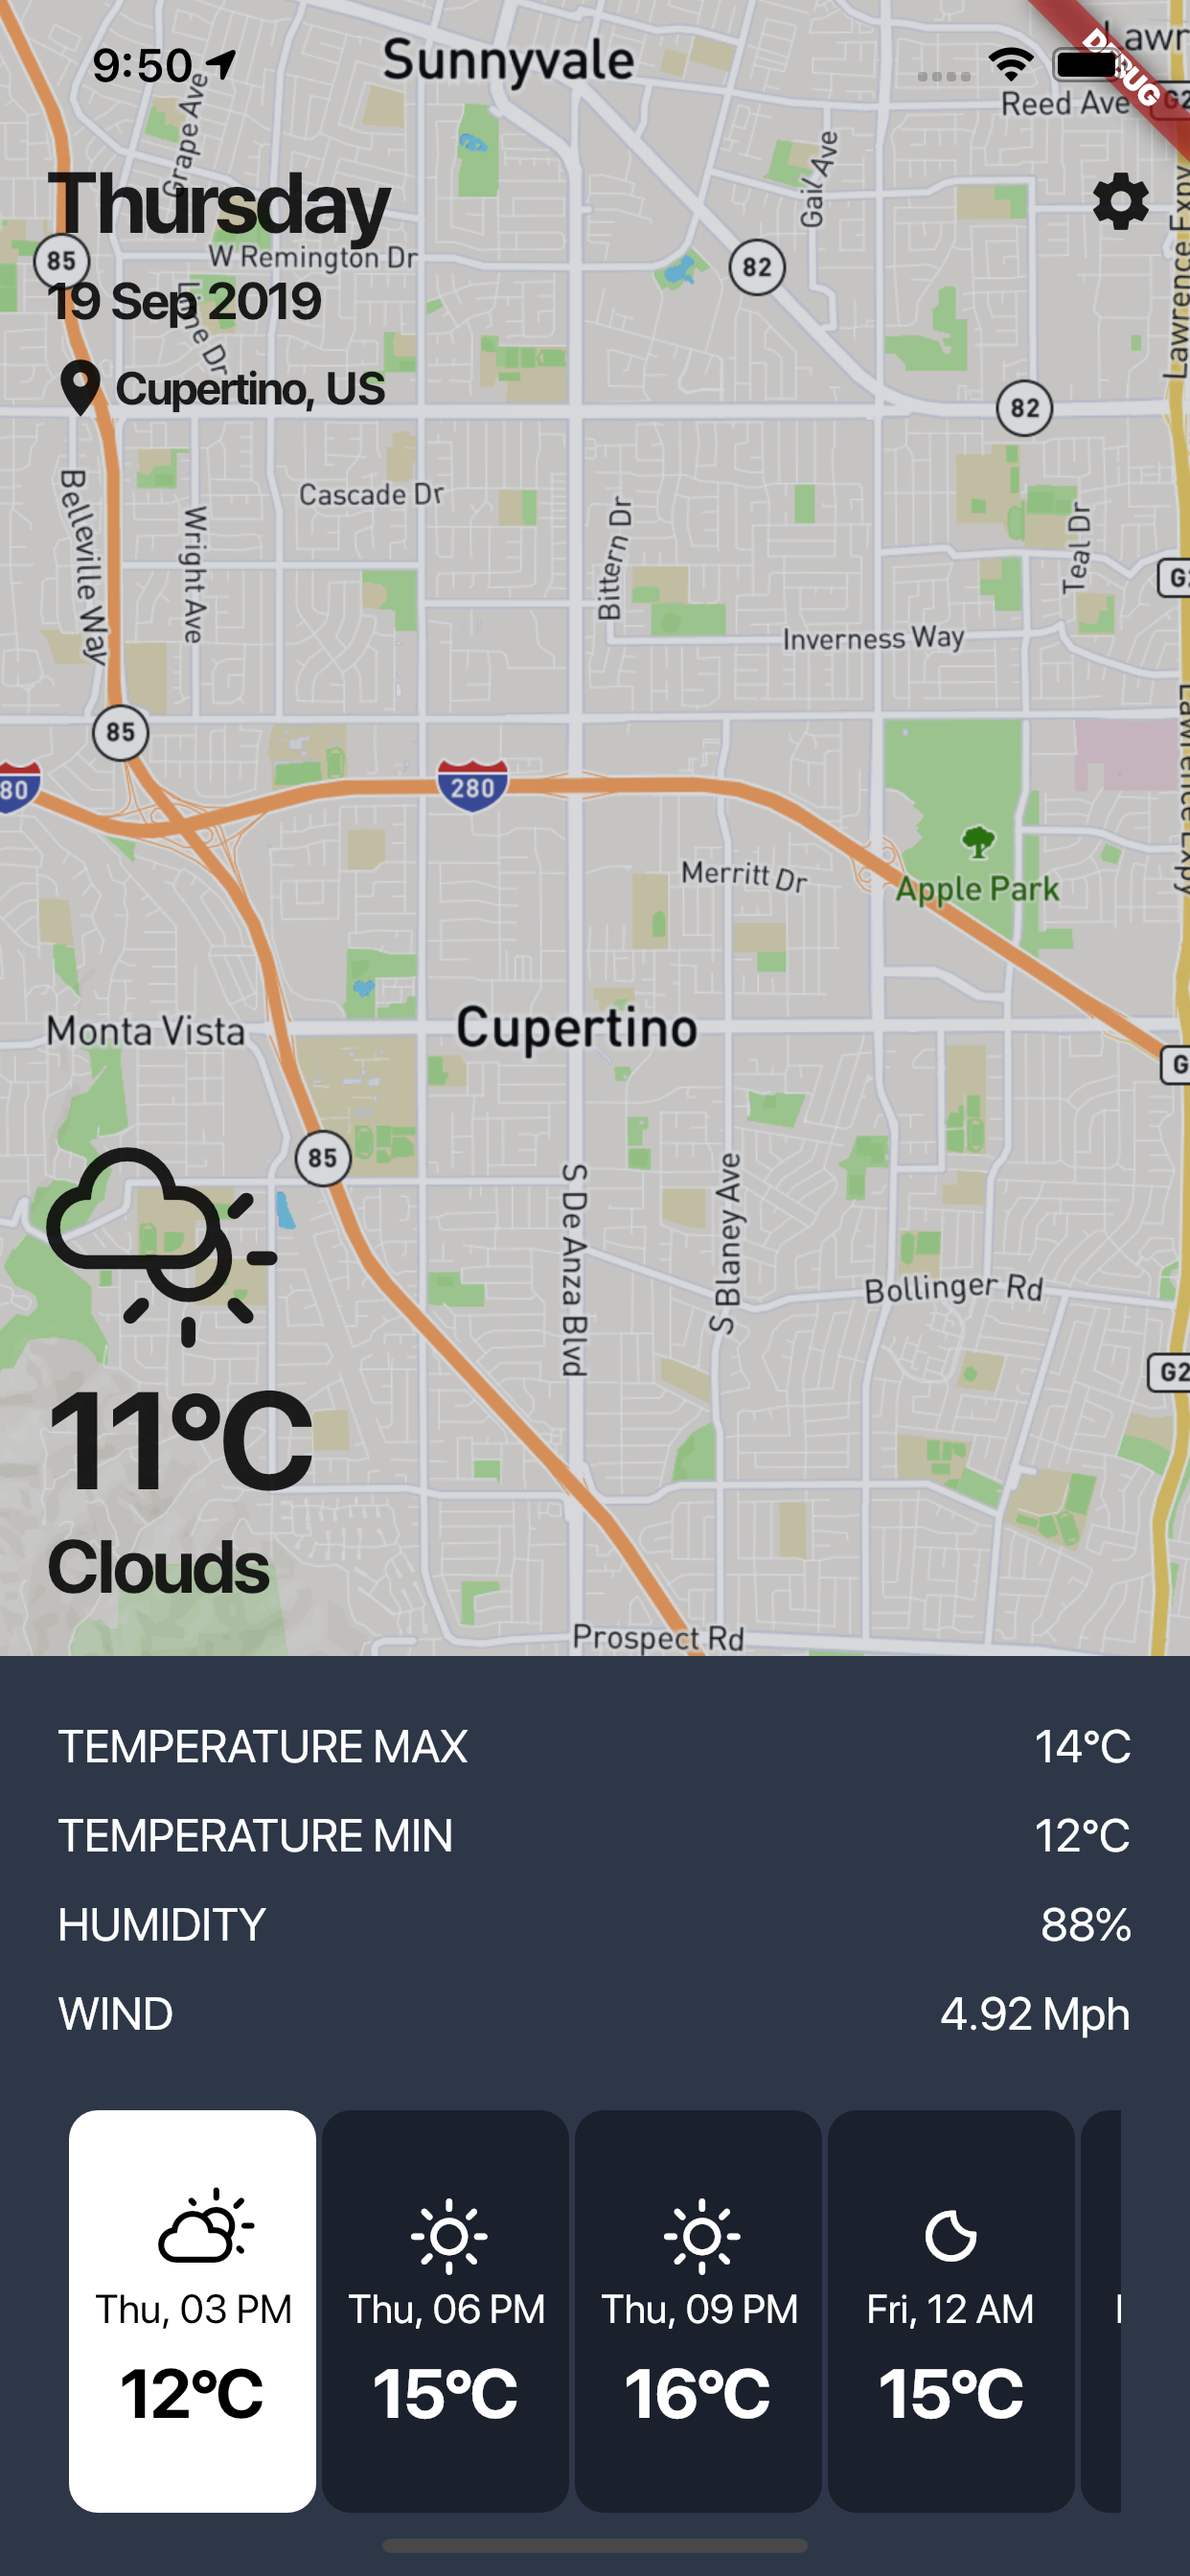
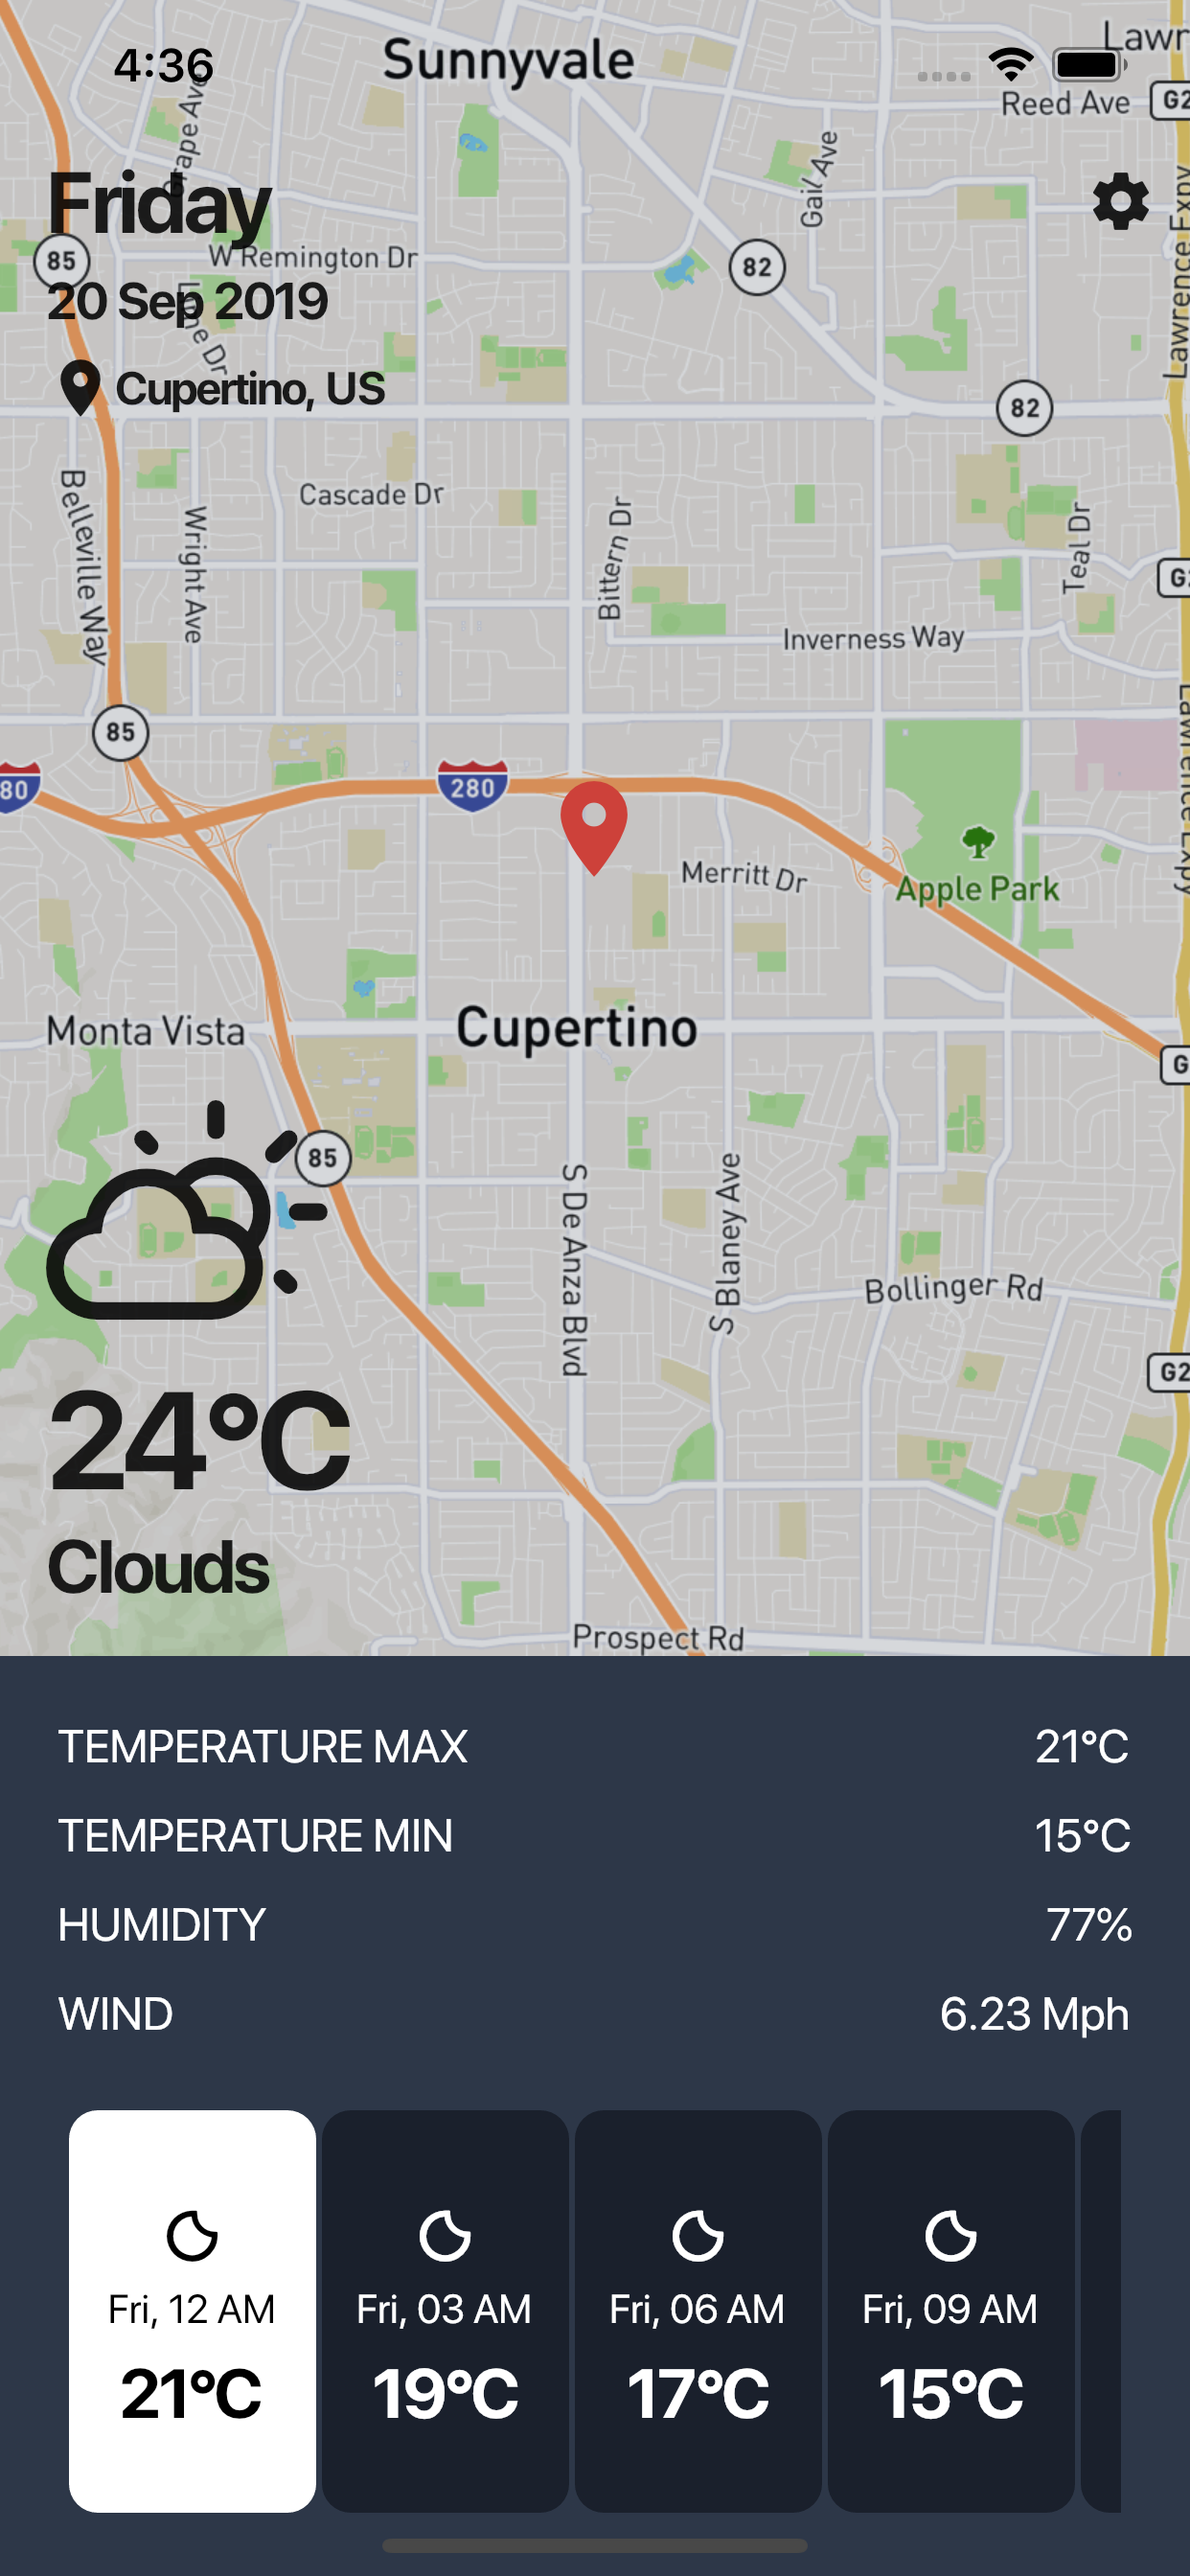
Displayed markder at current location Updated README.md

diff --git a/lib/widgets/current_weather.dart b/lib/widgets/current_weather.dart
@@ -60,6 +60,22 @@ class Map extends StatelessWidget {
                 'id': 'mapbox.streets',
               },
             ),
+            new MarkerLayerOptions(
+              markers: [
+                new Marker(
+                  width: 80.0,
+                  height: 80.0,
+                  point: LatLng(position.latitude, position.longitude),
+                  builder: (ctx) => new Container(
+                    child: Icon(
+                      Icons.location_on,
+                      color: Colors.red,
+                      size: 40,
+                    ),
+                  ),
+                ),
+              ],
+            ),
           ],
         );
       },

diff --git a/lib/main.dart b/lib/main.dart
@@ -61,6 +61,7 @@ class MyApp extends StatelessWidget {
       child: MaterialApp(
         title: 'Weather Card',
         home: HomeScreen(),
+        debugShowCheckedModeBanner: false,
       ),
     );
   }

diff --git a/README.md b/README.md
@@ -1,6 +1,6 @@
 # Weather Card
 
-Display current weather information with map of current location and weather forecast of current location.
+Display current weather information with map and weather forecast of current location.
 
 ## Getting Started
 
@@ -10,14 +10,14 @@ Features:
 
 - Display current weather information
 - Display weather forecast
-- Display map of current location
+- Display map of current location using GPS
 - Switch from metric unit to imperial unit and vice versa
 
 ![UI](UI.png?raw=true)
 
 To get start, run below command in Terminal
 
-```
+```bash
 cp .env.example.dart .env.dart
 ```
 
